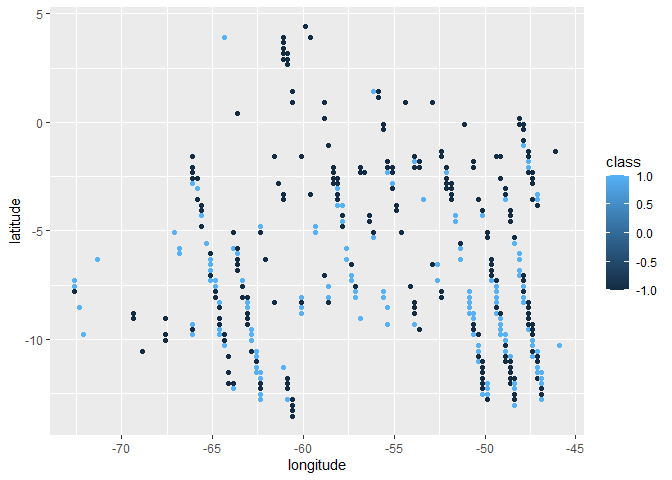
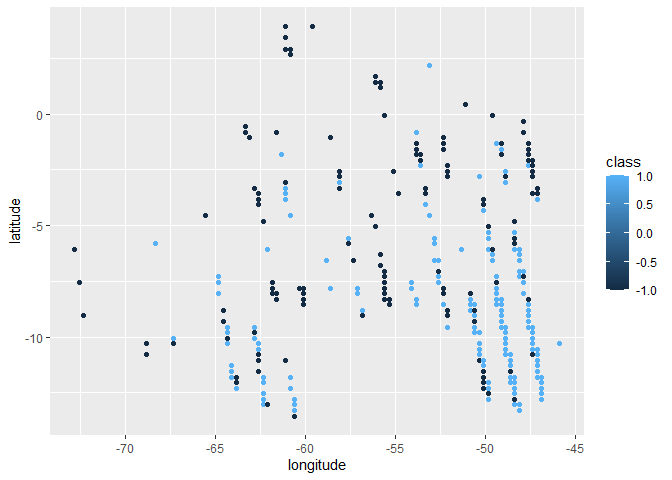
atualização dos mapas e a dsitribuição dos betas

diff --git a/README.md b/README.md
@@ -357,20 +357,19 @@ pol_nordeste <- pol_nordeste[!((pol_nordeste[,1]>=-38.7 & pol_nordeste[,1]<=-38.
 Plot de todos os pontos.
 
 ``` r
-br |>
-  ggplot2::ggplot() +
-  ggplot2::geom_sf(fill="#2D3E50", color="#FEBF57",
-          size=.15, show.legend = FALSE) +
-  ggplot2::geom_point(data=oco2 |> dplyr::filter(year == 2014) ,
-             ggplot2::aes(x=longitude,y=latitude),
-             shape=3,
-             col="red",
-             alpha=0.2)
+# br |>
+#   ggplot2::ggplot() +
+#   ggplot2::geom_sf(fill="#2D3E50", color="#FEBF57",
+#           size=.15, show.legend = FALSE) +
+#   ggplot2::geom_point(data=oco2 |> dplyr::filter(year == 2014) ,
+#              ggplot2::aes(x=longitude,y=latitude),
+#              shape=3,
+#              col="red",
+#              alpha=0.2)
 ```
 
-![](README_files/figure-gfm/unnamed-chunk-10-1.png)<!-- --> Definindo
-uma função para criar as flags das diferentes regiões e da amazônia
-legal
+Definindo uma função para criar as flags das diferentes regiões e da
+amazônia legal
 
 ``` r
 def_pol <- function(x, y, pol){
@@ -421,7 +420,7 @@ artigo será ano a ano.
 
 ``` r
 oco2_nest <- oco2_br_trend |>
-  dplyr::filter(year == 2016) |> 
+  dplyr::filter(year == 2020) |> 
   tibble::as_tibble() |> 
   dplyr::mutate(quarter = lubridate::quarter(data),
                 quarter_year = lubridate::make_date(year, quarter, 1)) |>   tidyr::pivot_longer(
@@ -497,8 +496,6 @@ linear_reg <- function(df, output="beta1"){
      return(nrow(df))
    }
 }
-linear_reg(oco2_nest$data[[5]],"n")
-#> [1] 5
 ```
 
 Vamos aplicar a função para cada ponto de amostragem do satélite
@@ -552,9 +549,9 @@ oco2_aux <- oco2_nest |>
 
 oco2_aux <- oco2_aux |> 
   dplyr::mutate(
-    anomaly = partial - oco2_aux |> 
+    anomaly =  oco2_aux |> 
       dplyr::pull(partial) |>  
-      mean()
+      mean() - partial
   )
 ```
 
@@ -567,6 +564,30 @@ oco2_aux |>
 ![](README_files/figure-gfm/unnamed-chunk-21-1.png)<!-- -->
 
 ``` r
+oco2_aux |> 
+  ggplot2::ggplot(ggplot2::aes(x=beta_line, y= ..density..)) +
+  ggplot2::geom_histogram(bins=30,
+                          color="black", fill= "lightgray") +
+  ggplot2::labs(x="βpixel") +
+  ggplot2::geom_density(fill = "red", alpha = .05) +
+  ggplot2::theme_bw()
+```
+
+![](README_files/figure-gfm/unnamed-chunk-22-1.png)<!-- -->
+
+``` r
+oco2_aux |> 
+  ggplot2::ggplot(ggplot2::aes(x=anomaly, y= ..density..)) +
+  ggplot2::geom_histogram(bins=30,
+                          color="black", fill= "lightgray") +
+  ggplot2::labs(x="anomaly") +
+  ggplot2::geom_density(fill = "blue", alpha = .05) +
+  ggplot2::theme_bw()
+```
+
+![](README_files/figure-gfm/unnamed-chunk-23-1.png)<!-- -->
+
+``` r
 sp::coordinates(oco2_aux)=~ longitude+latitude  
 form_beta<-beta_line~1
 form_anom<-anomaly~1
@@ -577,11 +598,11 @@ form_anom<-anomaly~1
 ``` r
 vari_beta <- gstat::variogram(form_beta, data=oco2_aux)
 m_beta <- gstat::fit.variogram(vari_beta,fit.method = 7,
-                               gstat::vgm(1, "Sph", 300, 1))
+                               gstat::vgm(1, "Sph", 6, 1))
 plot(vari_beta,model=m_beta, col=1,pl=F,pch=16)
 ```
 
-![](README_files/figure-gfm/unnamed-chunk-23-1.png)<!-- -->
+![](README_files/figure-gfm/unnamed-chunk-25-1.png)<!-- -->
 
 ### Semivariograma para anomalia
 
@@ -591,7 +612,7 @@ m_anom <- gstat::fit.variogram(vari_anom,gstat::vgm(.8,"Sph",9,.2))
 plot(vari_anom, model=m_anom, col=1,pl=F,pch=16)
 ```
 
-![](README_files/figure-gfm/unnamed-chunk-24-1.png)<!-- -->
+![](README_files/figure-gfm/unnamed-chunk-26-1.png)<!-- -->
 
 ``` r
 x<-oco2_aux$longitude
@@ -609,8 +630,7 @@ ko_beta<-gstat::krige(formula=form_beta, oco2_aux, grid, model=m_beta,
     debug.level=-1,  
     )
 #> [using ordinary kriging]
-#>   4% done 10% done 16% done 22% done 28% done 35% done 41% done 46% done 53% done 60% done 67% done 74% done 82% done 89% done 96% done100% done
-
+#>   3% done  7% done 12% done 16% done 22% done 33% done 44% done 56% done 70% done 80% done 92% done100% done
 
 ko_anom<-gstat::krige(formula=form_anom, oco2_aux, grid, model=m_anom, 
     block=c(0,0),
@@ -619,7 +639,7 @@ ko_anom<-gstat::krige(formula=form_anom, oco2_aux, grid, model=m_anom,
     debug.level=-1,  
     )
 #> [using ordinary kriging]
-#>   0% done  7% done 14% done 22% done 29% done 36% done 44% done 51% done 59% done 65% done 69% done 75% done 81% done 86% done 90% done 93% done 98% done100% done
+#>  12% done 23% done 30% done 35% done 41% done 52% done 63% done 72% done 81% done 86% done 96% done100% done
 ```
 
 ``` r
@@ -634,7 +654,7 @@ tibble::as_tibble(ko_beta) |>
   ggplot2::theme_bw()
 ```
 
-![](README_files/figure-gfm/unnamed-chunk-27-1.png)<!-- -->
+![](README_files/figure-gfm/unnamed-chunk-29-1.png)<!-- -->
 
 ``` r
 tibble::as_tibble(ko_anom) |> 
@@ -648,4 +668,4 @@ tibble::as_tibble(ko_anom) |>
   ggplot2::theme_bw()
 ```
 
-![](README_files/figure-gfm/unnamed-chunk-28-1.png)<!-- -->
+![](README_files/figure-gfm/unnamed-chunk-30-1.png)<!-- -->
